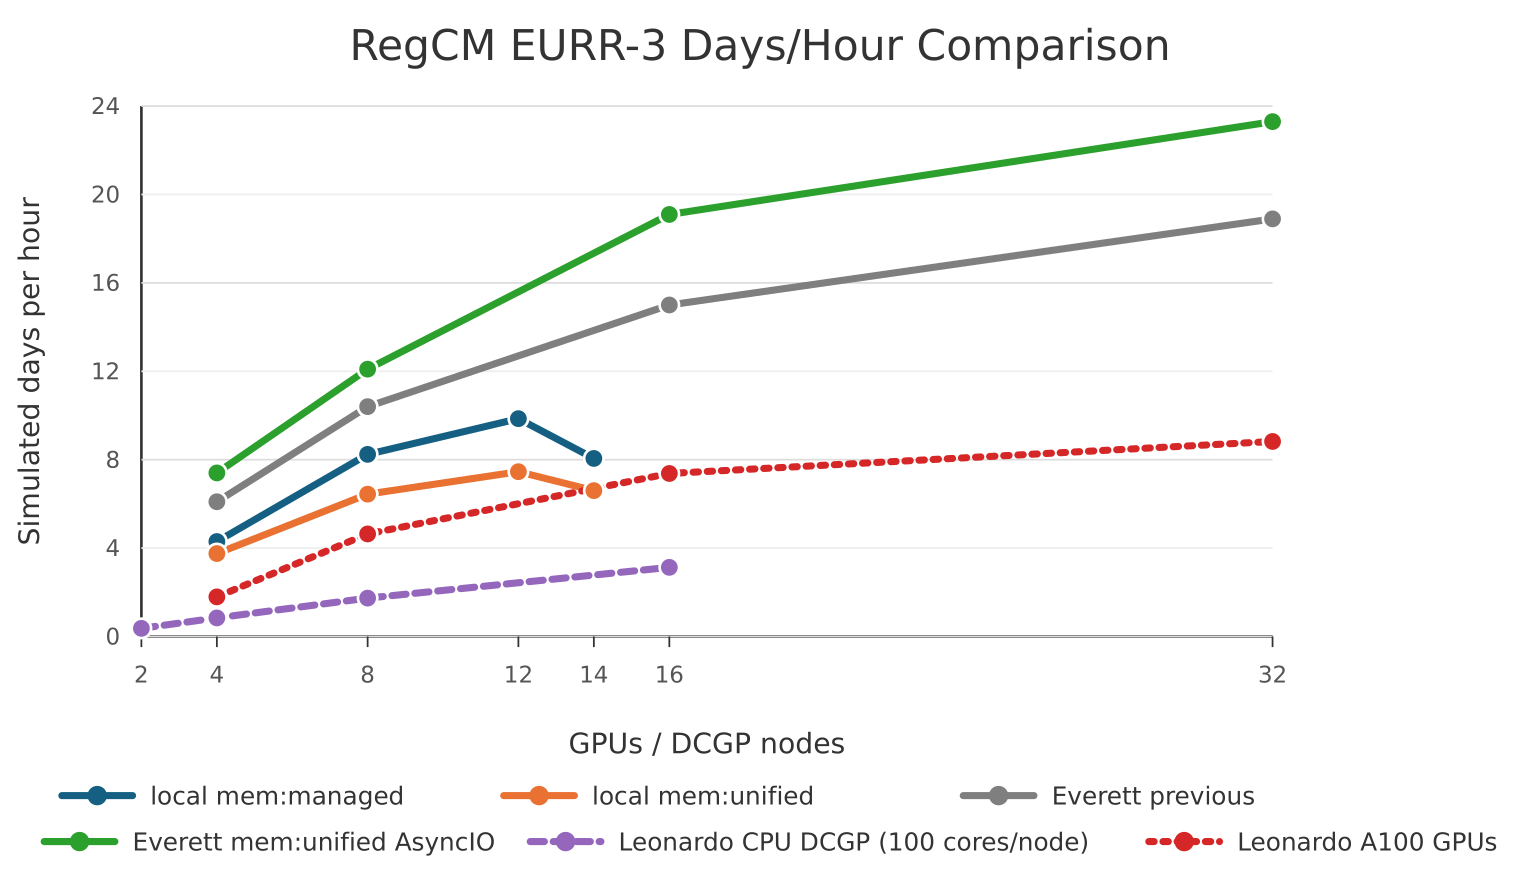
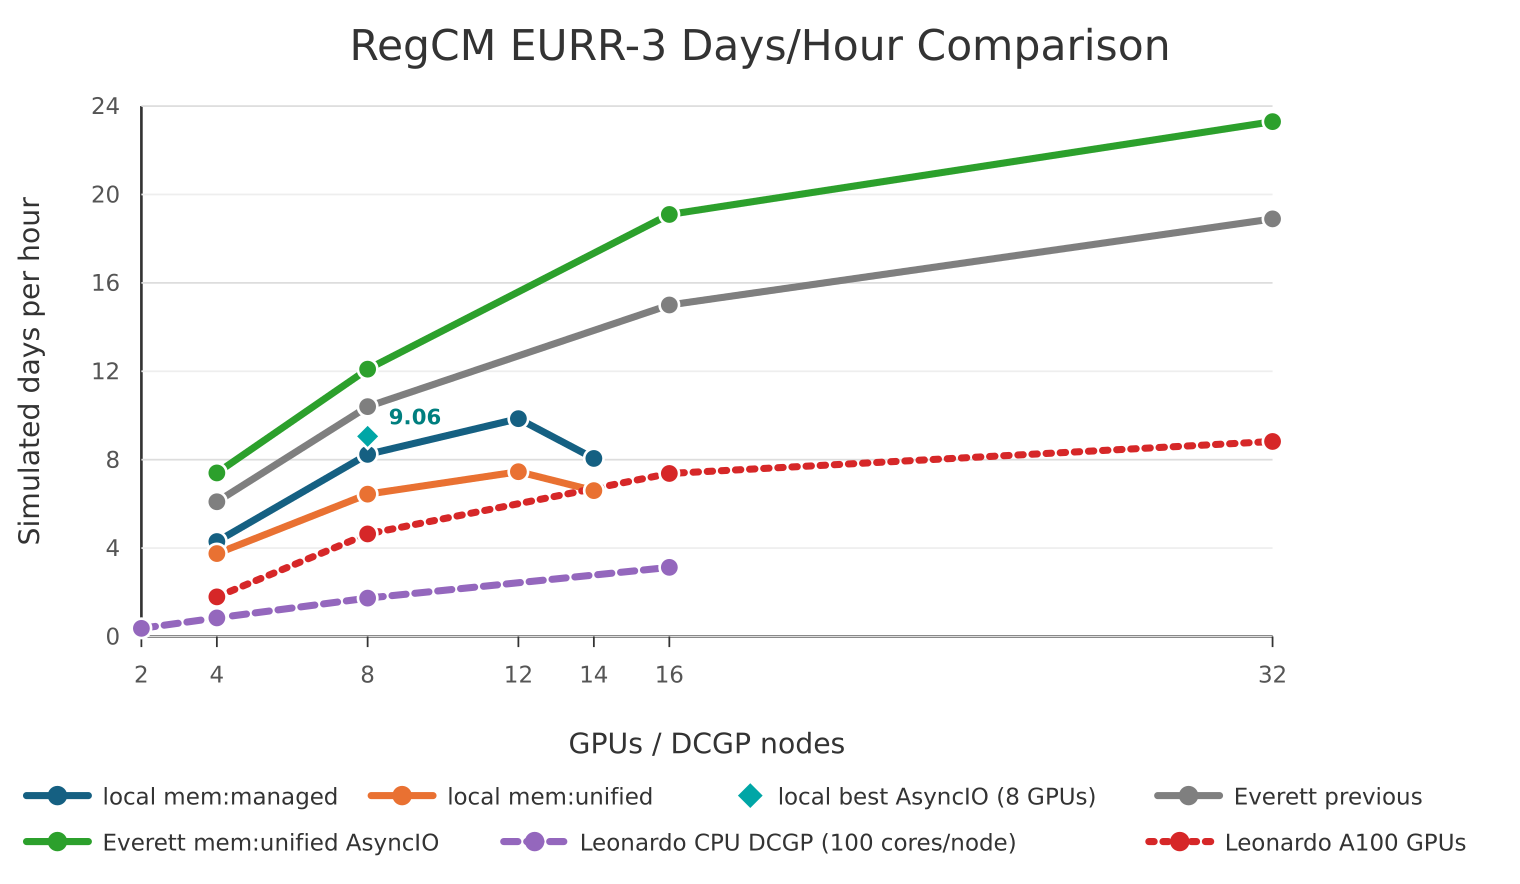
Added the 8 gpu data point to the plots.

Changed region(s): [[0.0, 0.8857, 0.9895, 0.9774], [0.2474, 0.4581, 0.3092, 0.4887], [0.2164, 0.4887, 0.2474, 0.5192]]

diff --git a/Benchmark_Reports/Discoverer_RegCM_Benchmark_Report.md b/Benchmark_Reports/Discoverer_RegCM_Benchmark_Report.md
@@ -502,7 +502,7 @@ The preliminary 7-day `mem:unified` status is:
 | 12 | `179118` | Completed | 3379.38 s | 482.77 s/day | Full 7-day run |
 | 14 | `179254` | Completed | 3819.20 s | 545.60 s/day | Full 7-day run after increasing walltime to `01:30:00` |
 
-The completed 7-day runs common to both local Discoverer+ memory modes compare as follows. Everett's `mem:unified` values are the AsyncIO days/hour values digitized from `GB200_EURR3.png`; only matching GPU counts are included in the table. The accompanying plot also includes Everett's previous GB200 series from the same chart.
+The completed 7-day runs common to both local Discoverer+ memory modes compare as follows. Everett's `mem:unified` values are the AsyncIO days/hour values digitized from `GB200_EURR3.png`; only matching GPU counts are included in the table. The accompanying plot also includes Everett's previous GB200 series and the best local async-I/O result, 9.06 days/hour at eight GPUs from job `182785`.
 
 <a id="table-17"></a>
 
@@ -518,10 +518,10 @@ The completed 7-day runs common to both local Discoverer+ memory modes compare a
 <a id="figure-1"></a>
 
 <p align="center">
-  <img src="Discoverer_Memory_Mode_Days_Per_Hour_v2.png" alt="Days/hour comparison for local memory modes, Leonardo CPU and A100 GPU references, Everett previous, and Everett AsyncIO" width="760">
+  <img src="Discoverer_Memory_Mode_Days_Per_Hour_v2.png" alt="Days/hour comparison for local memory modes, the best local eight-GPU async-I/O result, Leonardo CPU and A100 GPU references, Everett previous, and Everett AsyncIO" width="760">
 </p>
 
-<p align="center"><strong>Figure 1. Days/hour comparison for local Discoverer+ memory modes, Leonardo CPU and A100 GPU references, and Everett GB200 results.</strong> Local GPU series use the completed seven-day Discoverer+ runs and are plotted by GPU count. The Leonardo CPU reference is plotted by CPU node count, with 100 MPI/CPU cores used per DCGP node. Leonardo A100 points use 4, 8, 16, and 32 GPUs. Everett's previous and AsyncIO series are approximate values digitized from <code>GB200_EURR3.png</code>.</p>
+<p align="center"><strong>Figure 1. Days/hour comparison for local Discoverer+ memory modes, local async I/O, Leonardo references, and Everett GB200 results.</strong> The teal diamond is the best local async-I/O battery result, 9.06 days/hour at eight GPUs. Other local GPU series use the completed seven-day Discoverer+ scaling runs. The Leonardo CPU reference is plotted by CPU node count, with 100 MPI/CPU cores used per DCGP node. Leonardo A100 points use 4, 8, 16, and 32 GPUs. Everett's previous and AsyncIO series are approximate values digitized from <code>GB200_EURR3.png</code>.</p>
 
 The 1-GPU `mem:unified` run reproduced the same `radinp` accelerator fatal error seen in the `mem:managed` 1-GPU cases. The 2-GPU `mem:unified` attempts have not established a RegCM model failure; they failed through Slurm node failures or pre-launch `srun` errors, so the 2-GPU `mem:unified` result remains unresolved until job `179445` completes.
 

diff --git a/Benchmark_Reports/Presentation.md b/Benchmark_Reports/Presentation.md
@@ -313,7 +313,7 @@ The isolated build used NVHPC standard parallelism with unified memory targeting
 -stdpar=gpu -gpu=cc90,lineinfo,mem:unified -Minfo=accel
 ```
 
-The completed 7-day runs common to both local Discoverer+ memory modes compare as follows. Everett's `mem:unified` values are the AsyncIO days/hour values digitized from `GB200_EURR3.png`; only matching GPU counts are included in the table. The accompanying plot also includes Everett's previous GB200 series from the same chart.
+The completed 7-day runs common to both local Discoverer+ memory modes compare as follows. Everett's `mem:unified` values are the AsyncIO days/hour values digitized from `GB200_EURR3.png`; only matching GPU counts are included in the table. The accompanying plot also includes Everett's previous GB200 series and the best local async-I/O result, 9.06 days/hour at eight GPUs from job `182785`.
 
 <a id="table-9"></a>
 
@@ -329,10 +329,10 @@ The completed 7-day runs common to both local Discoverer+ memory modes compare a
 <a id="figure-1"></a>
 
 <p align="center">
-  <img src="Discoverer_Memory_Mode_Days_Per_Hour.svg" alt="Days/hour comparison for local memory modes, Everett previous, and Everett AsyncIO" width="760">
+  <img src="Discoverer_Memory_Mode_Days_Per_Hour.svg" alt="Days/hour comparison for local memory modes, the best local eight-GPU async-I/O result, Everett previous, and Everett AsyncIO" width="760">
 </p>
 
-<p align="center"><strong>Figure 1. Days/hour comparison for local Discoverer+ memory modes and Everett GB200 results.</strong> Local series use the completed seven-day Discoverer+ runs. Everett's previous and AsyncIO series are approximate values digitized from <code>GB200_EURR3.png</code>.</p>
+<p align="center"><strong>Figure 1. Days/hour comparison for local Discoverer+ memory modes, local async I/O, and Everett GB200 results.</strong> The teal diamond is the best local async-I/O battery result, 9.06 days/hour at eight GPUs. Other local series use the completed seven-day Discoverer+ scaling runs. Everett's previous and AsyncIO series are approximate values digitized from <code>GB200_EURR3.png</code>.</p>
 
 ## 4. Runtime Investigation and Known Issues
 
